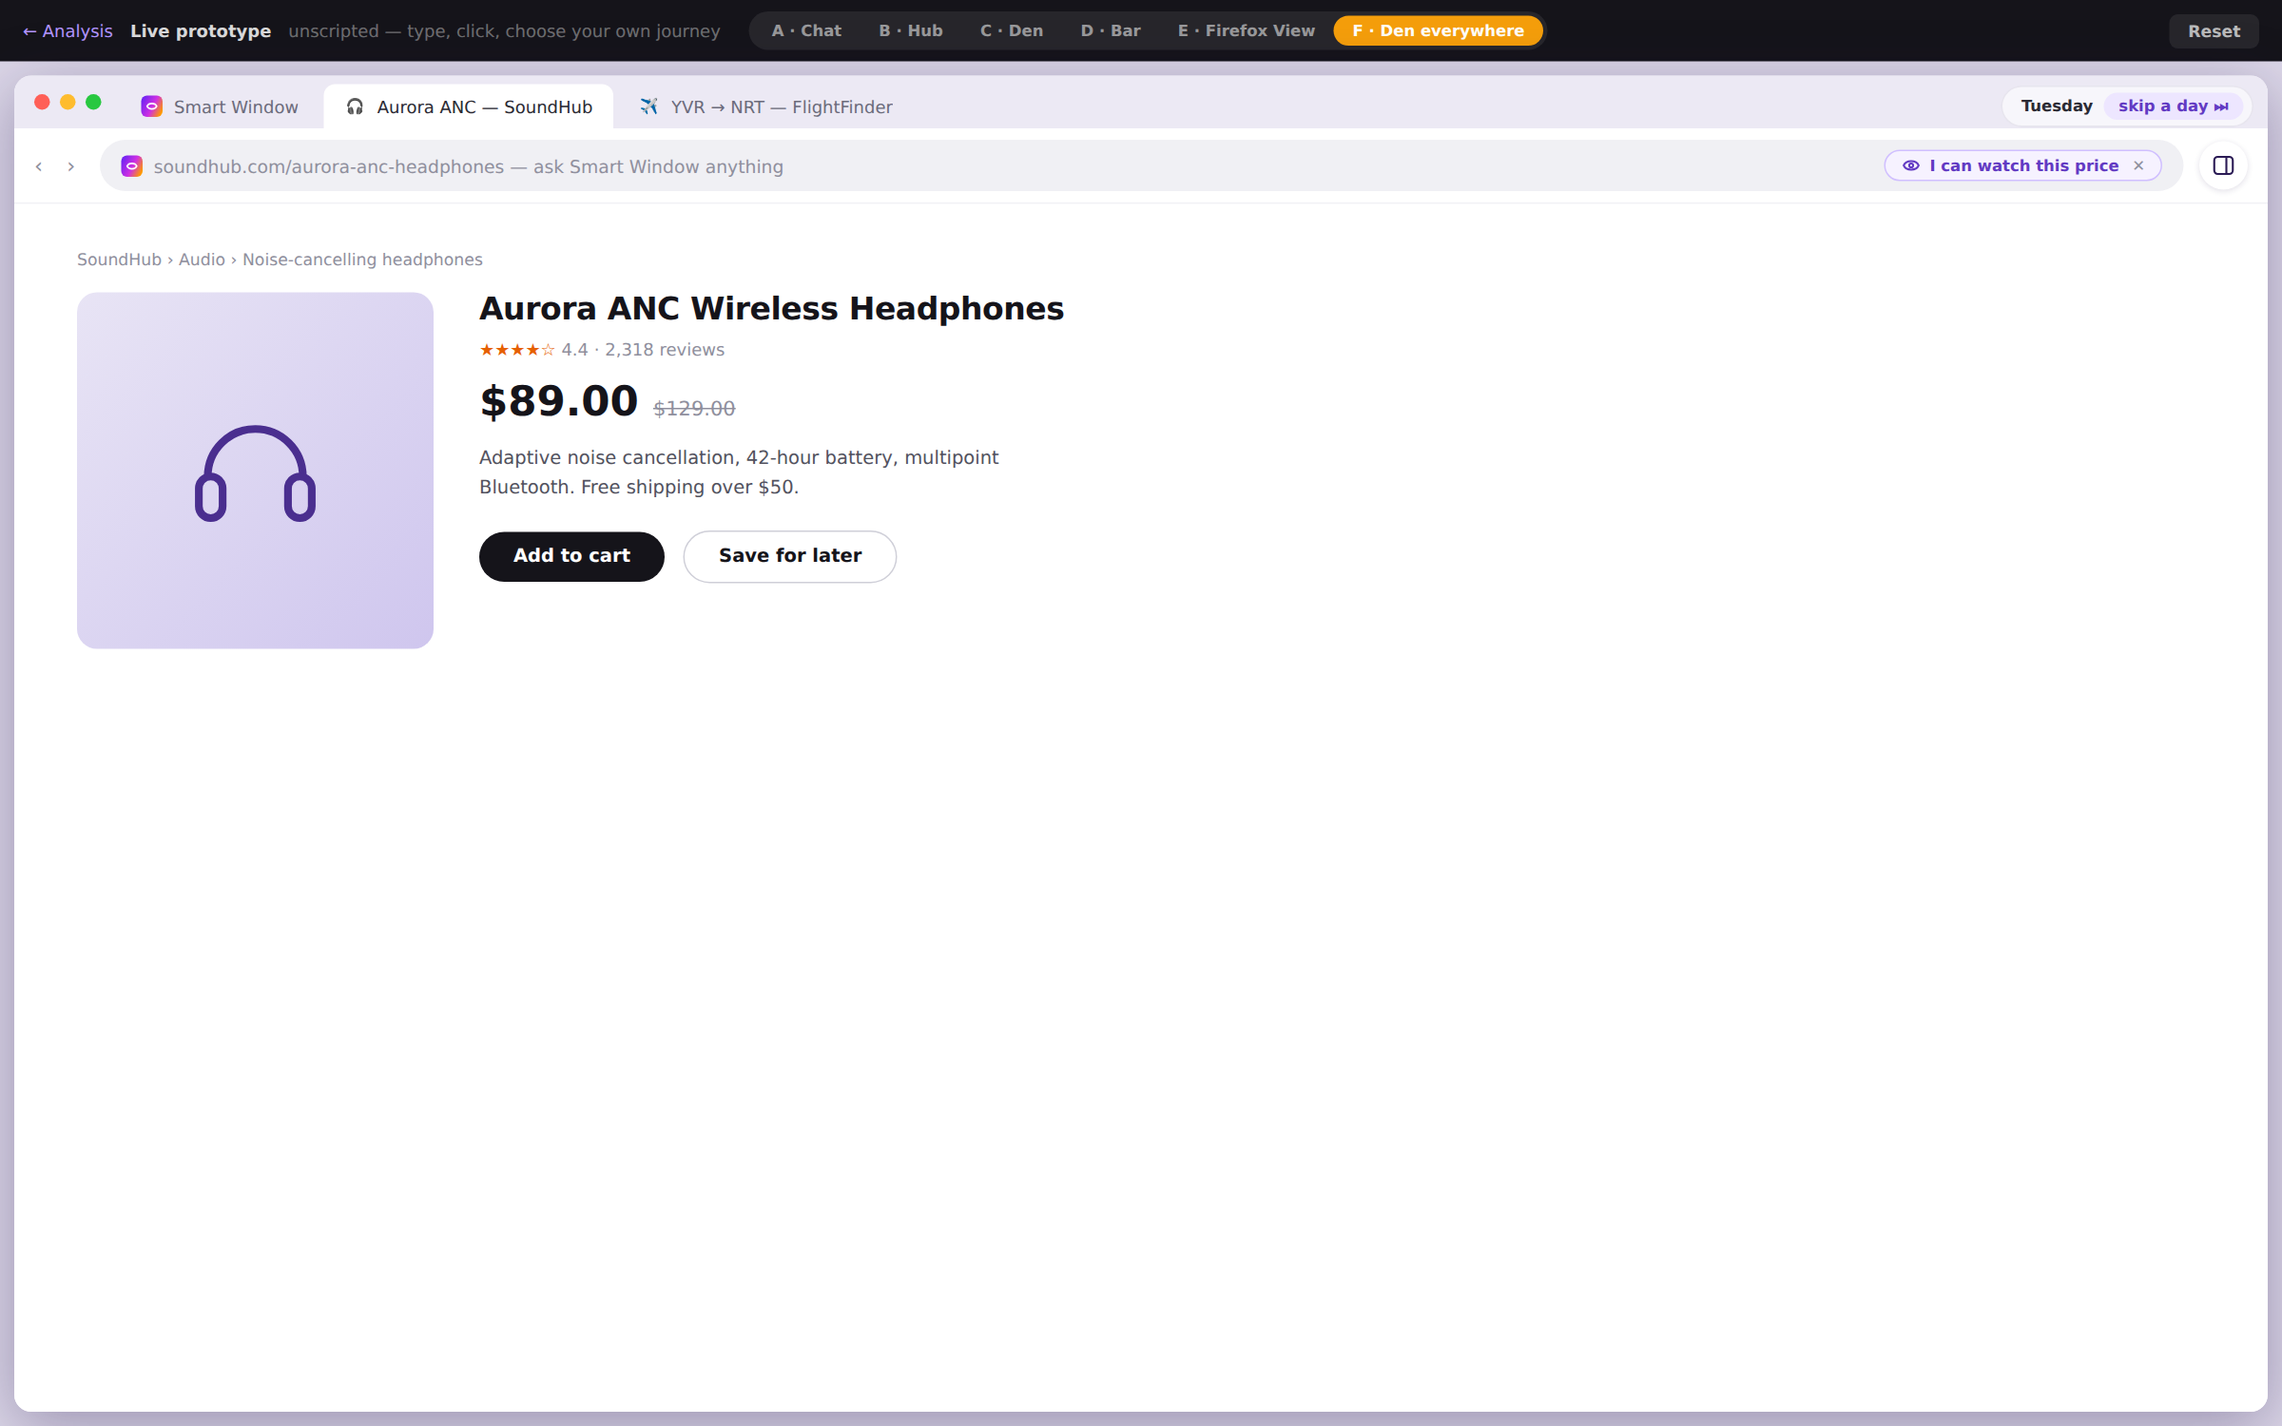
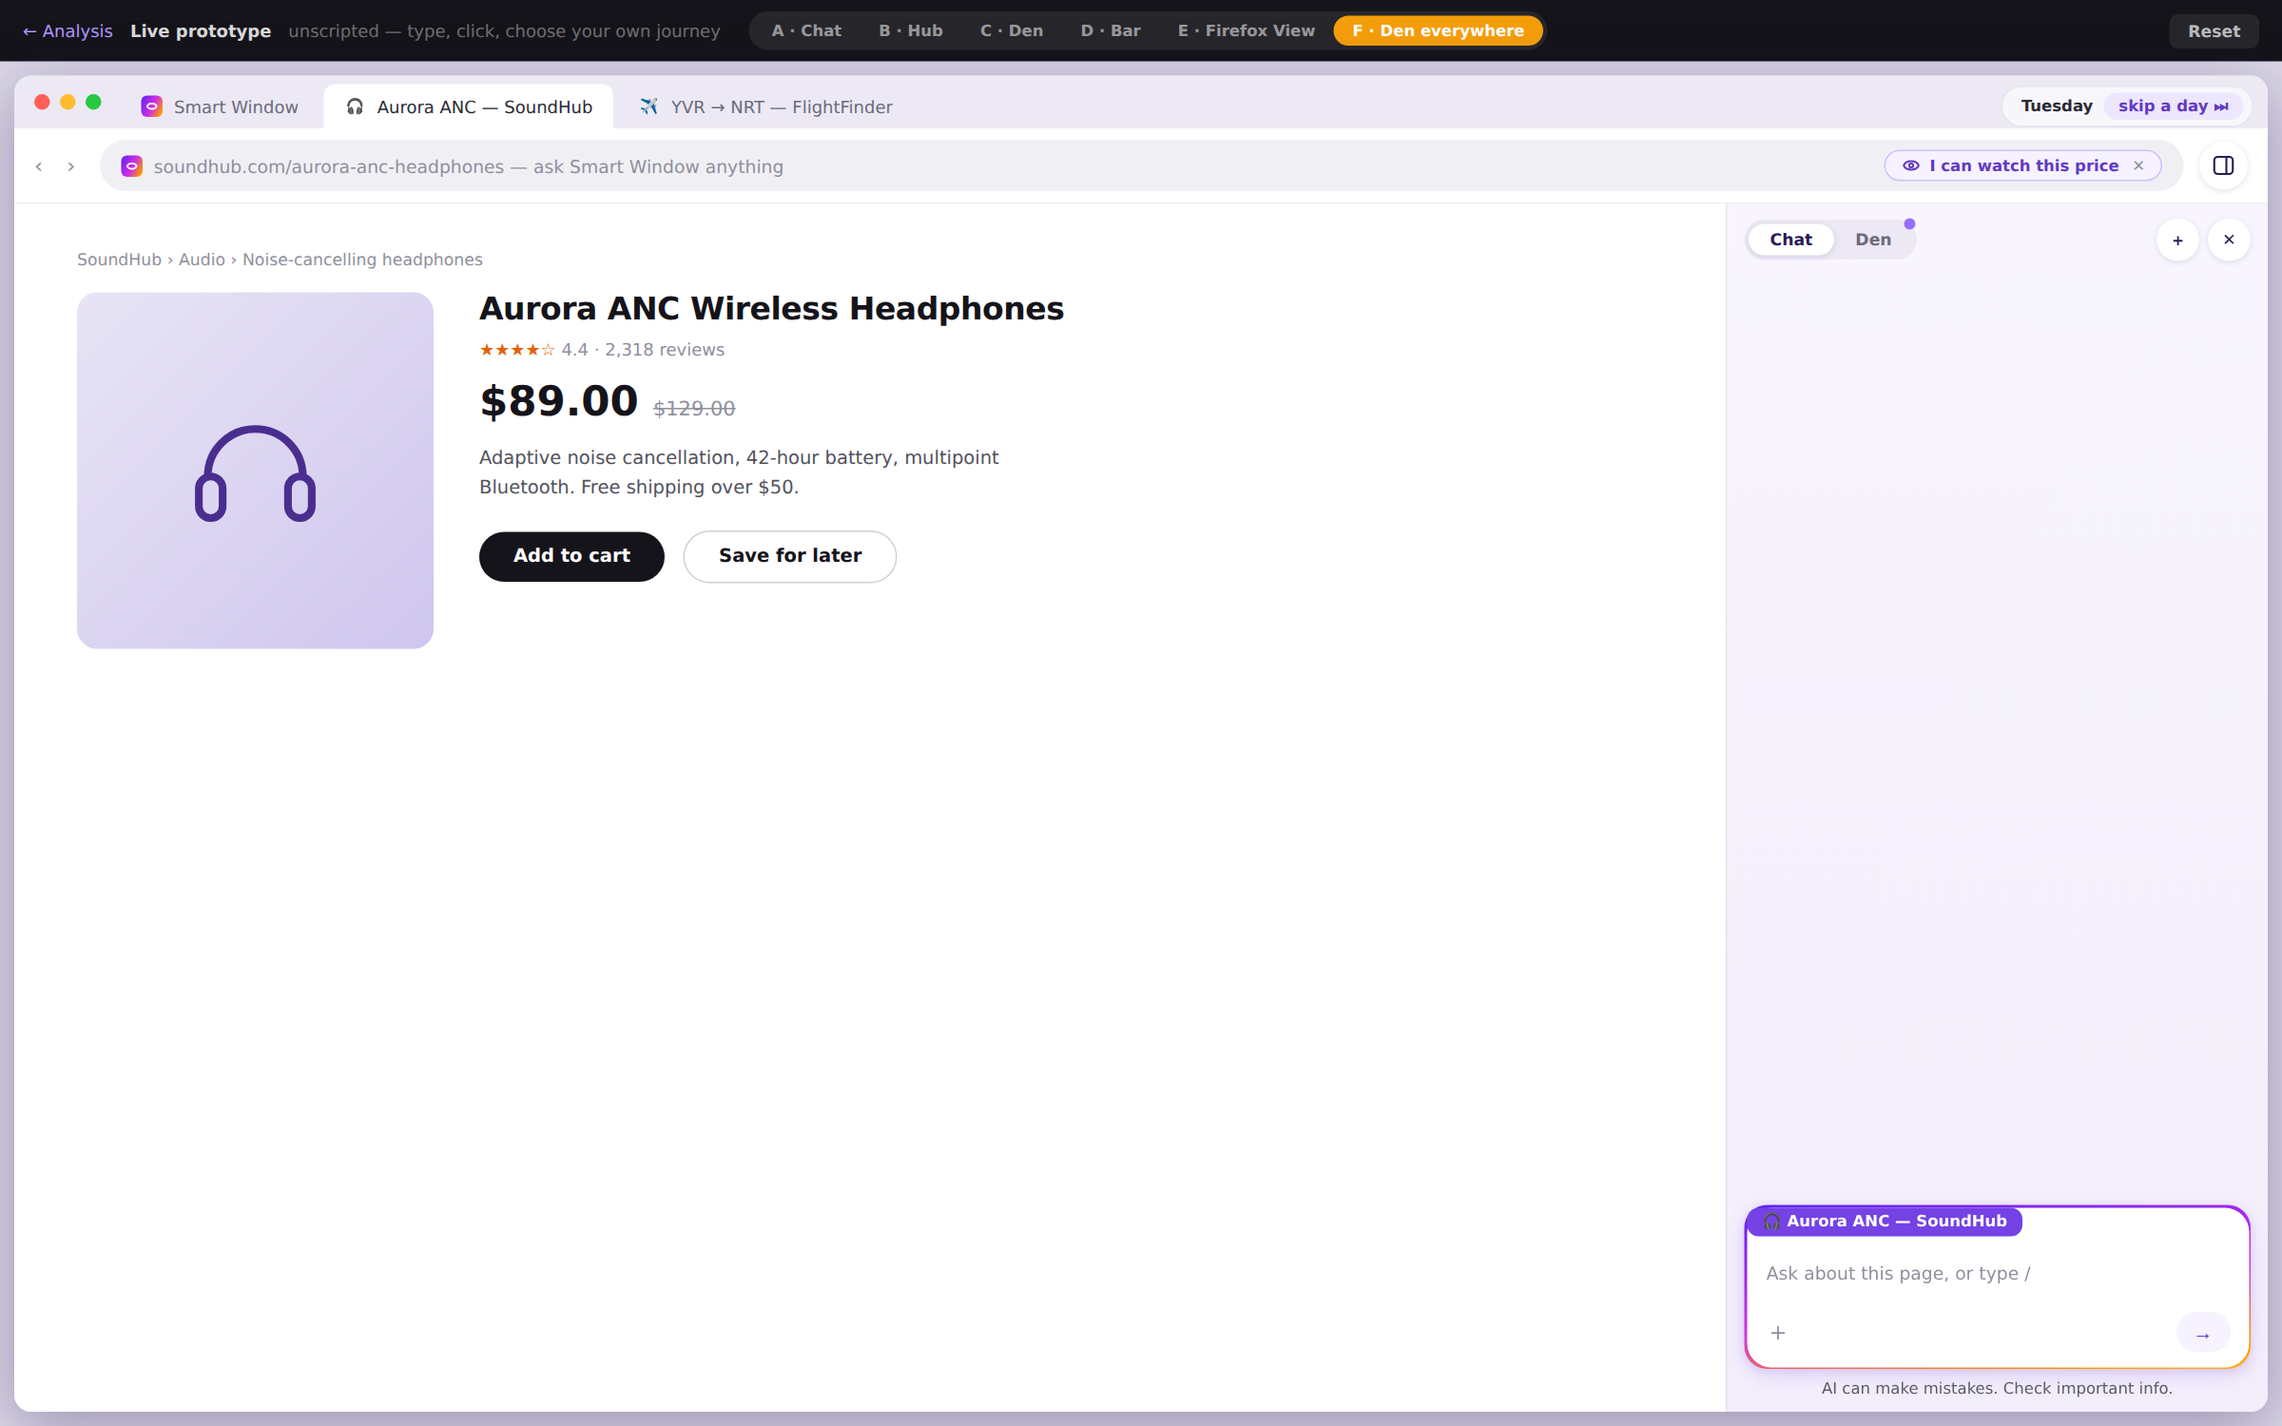
Empty state matches real Smart Window: chip dock above input, tab-context chip; one chip per agent on every page
- Cold-state suggestion chips dock right-aligned directly above the smartbar
  (real smartwindow-prompts placement) and follow the active page until the
  conversation starts; the input carries the tab-context chip
- Flights page now offers one chip per agent: Monitor (watch these fares),
  Scout (sweep the other fare sites), Research (when to book, keep a report)
- New fare paths: runFareScout sweep card with Monitor handoff; fare research
  writes the when-to-book report with its own report page and linked chat

https://claude.ai/code/session_01TEv3QWvCXTJFT4byozwCaW

Changed region(s): [[0.75, 0.828, 1.0, 0.9813], [0.75, 0.1533, 0.8438, 0.184]]

diff --git a/agent-concepts/live.html b/agent-concepts/live.html
@@ -136,6 +136,9 @@ body { font-family:var(--font); background:#dcd7e8; height:100vh; display:flex; 
 /* followup mode: column, start-aligned (smartwindow-prompts.css :host([mode=followup])) */
 .sw-prompts.followup { flex-direction:column; align-items:flex-start; padding-block:2px 14px; gap:8px; justify-content:flex-start; }
 .sw-prompts.sidebar { flex-direction:column; align-items:flex-end; padding-block:2px 14px; gap:8px; justify-content:flex-start; }
+.sb-chip-dock { display:flex; flex-direction:column; align-items:flex-end; padding:0 4px; }
+.sb-chip-dock .sw-prompts { flex-direction:column; align-items:flex-end; padding-block:0 10px; gap:7px; justify-content:flex-start; }
+.tab-ctx { width:fit-content; max-width:78%; overflow:hidden; text-overflow:ellipsis; white-space:nowrap; font-size:11px; font-weight:600; color:#fff; background:var(--violet-50); border-radius:8px; padding:3.5px 11px; margin:0 0 7px; }
 .sw-prompts.followup .sw-prompt-button { text-align:start; }
 
 /* chat-active conversation (ai-chat-content.css) */
@@ -648,8 +651,10 @@ body { font-family:var(--font); background:#dcd7e8; height:100vh; display:flex; 
           <div class="pin-bar" id="pinBar"></div>
           <div class="sb-thread-scroll" id="sbScroll"><div class="sb-thread" id="sbThread"></div></div>
           <div class="sb-dock">
+            <div class="sb-chip-dock" id="sbChipDock"></div>
             <div class="sw-smartbar-wrap" id="sbBarWrap">
               <div class="sw-smartbar">
+                <div class="tab-ctx" id="sbTabCtx">🎧 Aurora ANC — SoundHub</div>
                 <textarea id="sbInput" placeholder="Ask about this page, or type /" rows="1"></textarea>
                 <div class="row"><span class="plus">＋</span><button class="send" id="sbSend">→</button></div>
               </div>
@@ -689,10 +694,10 @@ const repGlyph = '<svg width="14" height="14" viewBox="0 0 16 16" fill="none" st
 
 function parse(text) {
   const t = text.toLowerCase();
-  if (/research|compare|help me (pick|choose|decide|find)|which (one|should)|what should i|don't know/.test(t) && !/watch this/.test(t))
+  if (/research|compare|help me (pick|choose|decide|find)|which (one|should)|what should i|when should i|keep a report|don't know/.test(t) && !/watch this/.test(t))
     return { kind: "research", query: text.trim() };
-  if (/find (me )?(the )?best|best (deal|price)|promo code|coupon code|any (deals|codes|coupons)|deal on (these|this)|cheaper (somewhere|anywhere)/.test(t) && !/watch|monitor|keep/.test(t))
-    return { kind: "scout" };
+  if (/find (me )?(the )?best|best (deal|price)|promo code|coupon code|any (deals|codes|coupons)|deal on (these|this)|cheaper (somewhere|anywhere)|\bscout\b/.test(t) && !/watch|monitor|keep/.test(t))
+    return { kind: "scout", query: t };
   if (/watch|monitor|alert|tell me|notify|track|let me know|deal|promo|coupon|price drop/.test(t)) {
     const m = [...t.matchAll(/\$\s?(\d+)/g)].pop() || [...t.matchAll(/\b(\d{2,4})\b/g)].pop();
     const semantic = [];
@@ -790,7 +795,7 @@ function loader(text) { return addNode(el(`<div class="assistant-loader"><div cl
 function activateChat() {
   if (S.activeTab === "sw" && !S.chatActive) { S.chatActive = true; $("page-sw").classList.add("chat-active"); }
 }
-function clearFollowups() { document.querySelectorAll(".sw-prompts.followup, .sw-prompts.sidebar").forEach(n => n.remove()); }
+function clearFollowups() { document.querySelectorAll(".sw-prompts.followup, .sw-prompts.sidebar").forEach(n => n.remove()); const d = $("sbChipDock"); if (d) d.innerHTML = ""; }
 
 /* smartwindow-prompts: starters (row) and followups (column) */
 function chipRow(prompts, mode) {
@@ -809,9 +814,13 @@ function renderFollowups(custom) {
   clearFollowups();
   const list = (custom || computeFollowups()).filter(p => !S.usedChips.has(p)).slice(0, 3);
   if (!list.length) return;
-  // real smartwindow-prompts: starters sit on the user side (right-aligned),
-  // follow-ups under a response sit left (followup mode)
+  // real smartwindow-prompts: cold-state starters dock right-aligned just above
+  // the input; follow-ups under a response sit left in the thread
   const hasUserMsg = !!threadEl().querySelector(".chat-bubble-user");
+  if (!hasUserMsg && S.activeTab !== "sw") {
+    const dock = $("sbChipDock");
+    if (dock) { dock.appendChild(chipRow(list, "sidebar")); return; }
+  }
   threadEl().appendChild(chipRow(list, hasUserMsg ? "followup" : "sidebar"));
   scrollEl().scrollTop = 1e6;
 }
@@ -833,7 +842,8 @@ function computeFollowups() {
   if (rep && !pw) out.push("Watch the top pick for a price drop");
   if (!pw && !rep && S.activeTab === "soundhub") out.push("Watch this price for me", "Find me the best deal on these", "Help me pick ANC headphones under $100");
   if (S.activeTab === "soundhub" && !S.scoutRan && (pw || rep)) out.push("Find me the best deal on these");
-  if (!fw && S.activeTab === "flights") out.push("Watch these fares — refundable, under $850");
+  if (!fw && S.activeTab === "flights") out.push("Watch these fares — refundable, under $850", "Scout the other fare sites right now", "When should I book? Keep a report");
+  if (S.activeTab === "flights" && fw && !S.fareScoutRan) out.push("Scout the other fare sites right now");
   if (!out.length) out.push("What can you watch for me?");
   return [...new Set(out)];
 }
@@ -897,6 +907,7 @@ function submit(text) {
 
   const intent = parse(text);
   if (intent.kind === "scout") {
+    if (S.activeTab === "flights" || /fare|flight/.test(intent.query || "")) return runFareScout();
     if (S.activeTab !== "soundhub")
       return aiMsg(`Scout needs a product to hunt for — point me at one.`, ["Take me to the headphones page"]);
     return runScout();
@@ -1027,6 +1038,39 @@ function startWatch() {
   }
   renderAll();
 }
+function runFareScout() {
+  const fw0 = S.watches.find(w => w.kind === "fare");
+  if (S.fareScoutRan) {
+    return aiMsg(`Scout's latest fare sweep: best right now is <b>$899 at Google Flights</b> — refundable, matches your dates. ${fw0 ? "The Monitor checks all 4 sites from here." : "Want me to keep watching for your price?"}`,
+      fw0 ? null : ["Watch these fares — refundable, under $850"]);
+  }
+  S.fareScoutRan = true;
+  const steps = ["Scout is sweeping 4 fare sites…", "Matching your dates and cabin…", "Checking refundability on each fare…"];
+  const ld = loader(steps[0]); let i = 1;
+  const t = setInterval(() => {
+    if (i < steps.length) ld.querySelector("p").textContent = steps[i++];
+    else {
+      clearInterval(t); ld.remove();
+      log("Scout swept 4 fare sites — best $899 at Google Flights, refundable.");
+      const fw = S.watches.find(w => w.kind === "fare");
+      const card = addNode(el(`<div class="action-card">
+        <div class="ac-head"><div class="ac-glyph"><svg width="14" height="14" viewBox="0 0 16 16" fill="none" stroke="currentColor" stroke-width="1.5"><circle cx="7" cy="7" r="4.5"/><path d="M10.5 10.5L14 14"/></svg></div>
+          <div><div class="ac-title">Scout — fares right now</div><div class="ac-sub">4 sites swept · one-time · read-only, nothing booked</div></div></div>
+        <div class="ac-body">
+          <div class="ac-row"><span class="ic">🏆</span><span><b>$899 — Google Flights</b> · refundable · matches your dates</span></div>
+          <div class="ac-row"><span class="ic">·</span><span>${fmt(fw ? fw.price : 912)} — FlightFinder (this page) · $934 — Expedia · $951 — Kayak</span></div>
+          ${fw ? '<div class="ac-row"><span class="ic">→</span><span style="color:var(--green);font-weight:600">Handed to the Monitor — it now checks all 4 sites. Still above your target, so no alert.</span></div>' : ''}
+        </div>
+        ${fw ? '' : '<div class="ac-foot"><button class="ac-btn primary" data-act="hunt">Keep hunting — watch these fares</button><button class="ac-btn" data-act="done">That is all I needed</button></div>'}</div>`));
+      if (!fw) {
+        card.querySelector("[data-act=hunt]").onclick = () => { card.querySelector(".ac-foot").remove(); submit("Watch these fares — refundable, under $850"); };
+        card.querySelector("[data-act=done]").onclick = () => { card.querySelector(".ac-foot").remove(); renderFollowups(); };
+      }
+      setTimeout(() => renderFollowups(), 250);
+      renderAll();
+    }
+  }, 900);
+}
 function runScout() {
   if (S.scoutRan) {
     const pw = S.watches.find(w => w.kind === "price");
@@ -1124,6 +1168,34 @@ function watchHome() {
 }
 function startResearch(query) {
   const isHeadphones = /headphone|anc/i.test(query);
+  const isFares = /\bbook\b|fare|flight|trip|nrt|tokyo/i.test(query) || (!isHeadphones && S.activeTab === "flights");
+  if (isFares) {
+    const title = "When to book — YVR → NRT";
+    const ex = S.reports.find(r => r.title === title);
+    if (ex) {
+      if (ex.status === "working") return aiMsg(`Still working on that one — about a minute.`);
+      return aiMsg(`I already wrote that one — it's ${reportHome(true)}.`, ["Open the report"]);
+    }
+    const r = { id: S.id++, chat: currentHost(), type: "report", title, status: "working", createdDay: S.day, linkedChat: [{ who: "u", text: query }, { who: "a", text: "On it — I'll read the fare history and write up when to book." }] };
+    S.reports.push(r);
+    const steps = ["Reading 3 months of fare history…", "Comparing day-of-week patterns…", "Checking refundable inventory…", "Writing the report…"];
+    const ld = loader(steps[0]); let i = 1;
+    const t = setInterval(() => {
+      if (i < steps.length) ld.querySelector("p").textContent = steps[i++];
+      else {
+        clearInterval(t); ld.remove(); r.status = "done"; log(`Report finished: ${r.title}.`);
+        aiMsg(`Done — <b>${r.title}</b>. Book 3–6 weeks out; fares dip Tue–Wed. It's <b>${reportHome()}</b>.`, false);
+        const rc = addNode(el(`<div class="report-card"><div class="rc-glyph">${repGlyph}</div>
+          <div><div class="rc-title">${r.title}</div><div class="rc-sub">3 months of history · 4 sites · ${reportHome(true)}</div></div>
+          <span class="rc-open">Open →</span></div>`));
+        rc.onclick = () => openReport(r.id);
+        setTimeout(() => renderFollowups(), 200);
+        bumpShelf(); renderAll();
+      }
+    }, 1000);
+    renderAll();
+    return;
+  }
   if (!isHeadphones)
     return aiMsg(`Happy to research that — tell me a bit more about what you're choosing between, or pick a starting point:`, ["Help me pick ANC headphones under $100"]);
   const title = "ANC headphones under $100";
@@ -1327,10 +1399,38 @@ function renderShelves() {
   if (fb) { const n = S.watches.filter(w => w.status === "met" && !w.seen).length; fb.style.display = n ? "inline-flex" : "none"; fb.textContent = n; }
 }
 function bumpShelf() { renderShelves(); }
+function renderFareReport(r) {
+  const fw = S.watches.find(w => w.kind === "fare");
+  $("rvDoc").innerHTML = `
+    <div class="rv-kicker">${repGlyph} Research report · Smart Window</div>
+    <h1>${r.title}</h1>
+    <div class="rv-meta">3 months of fare history · 4 sites · every source linked</div>
+    <div style="display:flex;gap:8px;margin:10px 0 14px"><button class="ac-btn">🔗 Copy link</button><button class="ac-btn">🖨 Print</button><button class="ac-btn">⭐ Bookmark</button></div>
+    <div class="pick-card"><div><div class="pick-rank">The call</div><div class="pick-name">Book 3–6 weeks out</div><div class="pick-why">Fares dip Tue–Wed · your $850 cap cleared twice last quarter — realistic</div></div>
+      <div class="pick-price">${fw ? fmt(fw.price) + " now" : "$912 now"}</div></div>
+    <h3>The windows</h3>
+    <table class="ai-chat-table"><thead><tr><th>Window</th><th>Typical low</th><th>Refundable</th><th>Odds under $850</th></tr></thead><tbody>
+      <tr><td>6–8 weeks out</td><td>$905</td><td>Plenty</td><td>Low</td></tr>
+      <tr><td>3–6 weeks out</td><td>$861</td><td>Enough</td><td>Good — the window</td></tr>
+      <tr><td>1–2 weeks out</td><td>$968</td><td>Scarce</td><td>Poor</td></tr></tbody></table>
+    <h3>What I'd do</h3><p>${fw ? "Let the Monitor keep working — it checks all the sites and will catch the Tue–Wed dips for you." : "Start a watch rather than checking by hand — the dips last a day or two and are easy to miss."}</p>`;
+  $("rvChat").innerHTML = `<div class="lc-label">Linked chat</div>
+    ${r.linkedChat.map(m => `<div class="lc-msg ${m.who}">${esc(m.text)}</div>`).join("")}
+    <button class="lc-btn" id="rvContinue">Continue this conversation</button>
+    <button class="lc-btn" id="rvWatch" ${fw ? "disabled" : ""}>${fw ? "✓ These fares are being watched" : "👁 Watch these fares for a drop"}</button>`;
+  $("rvContinue").onclick = () => { go("sw"); activateChat(); aiMsg(`Picking up from <b>${r.title}</b> — what would you like to dig into?`, ["Scout the other fare sites right now"]); };
+  $("rvWatch").onclick = () => {
+    if (S.watches.find(w => w.kind === "fare")) return;
+    go("flights"); S.sidebarOpen = true; setSbView("chat"); renderAll();
+    userMsg("Watch these fares — refundable, under $850");
+    proposeWatch(parse("watch these fares refundable under $850"), false);
+  };
+}
 
 function renderReport() {
   const r = S.reports.find(r => r.id === S.openReportId);
   if (!r) return;
+  if (/when to book/i.test(r.title)) { renderFareReport(r); return; }
   const pw = S.watches.find(w => w.kind === "price");
   $("rvDoc").innerHTML = `
     <div class="rv-kicker">${repGlyph} Research report · Smart Window</div>
@@ -1523,6 +1623,10 @@ function targetQuestion(cb){
 
 /* ── per-concept chrome ── */
 function renderConceptChrome(){
+  const ctx = $("sbTabCtx");
+  if (ctx) ctx.textContent = ({ soundhub: "🎧 Aurora ANC — SoundHub", flights: "✈ YVR → NRT — FlightFinder", report: "📄 Report", hub: "👁 Your agents", fxv: "⊙ Firefox View" })[S.activeTab] || "This page";
+  // cold state: the docked chips follow the page until the conversation starts
+  if (S.sidebarOpen && S.sbView === "chat" && S.activeTab !== "sw" && !$("sbThread").querySelector(".chat-bubble-user")) renderFollowups();
   // Den segment in C and F
   $("segShelf").style.display = ['C','F'].includes(S.concept) ? '' : 'none';
   // newtab footer: a cross-chat destination only where the concept has one
